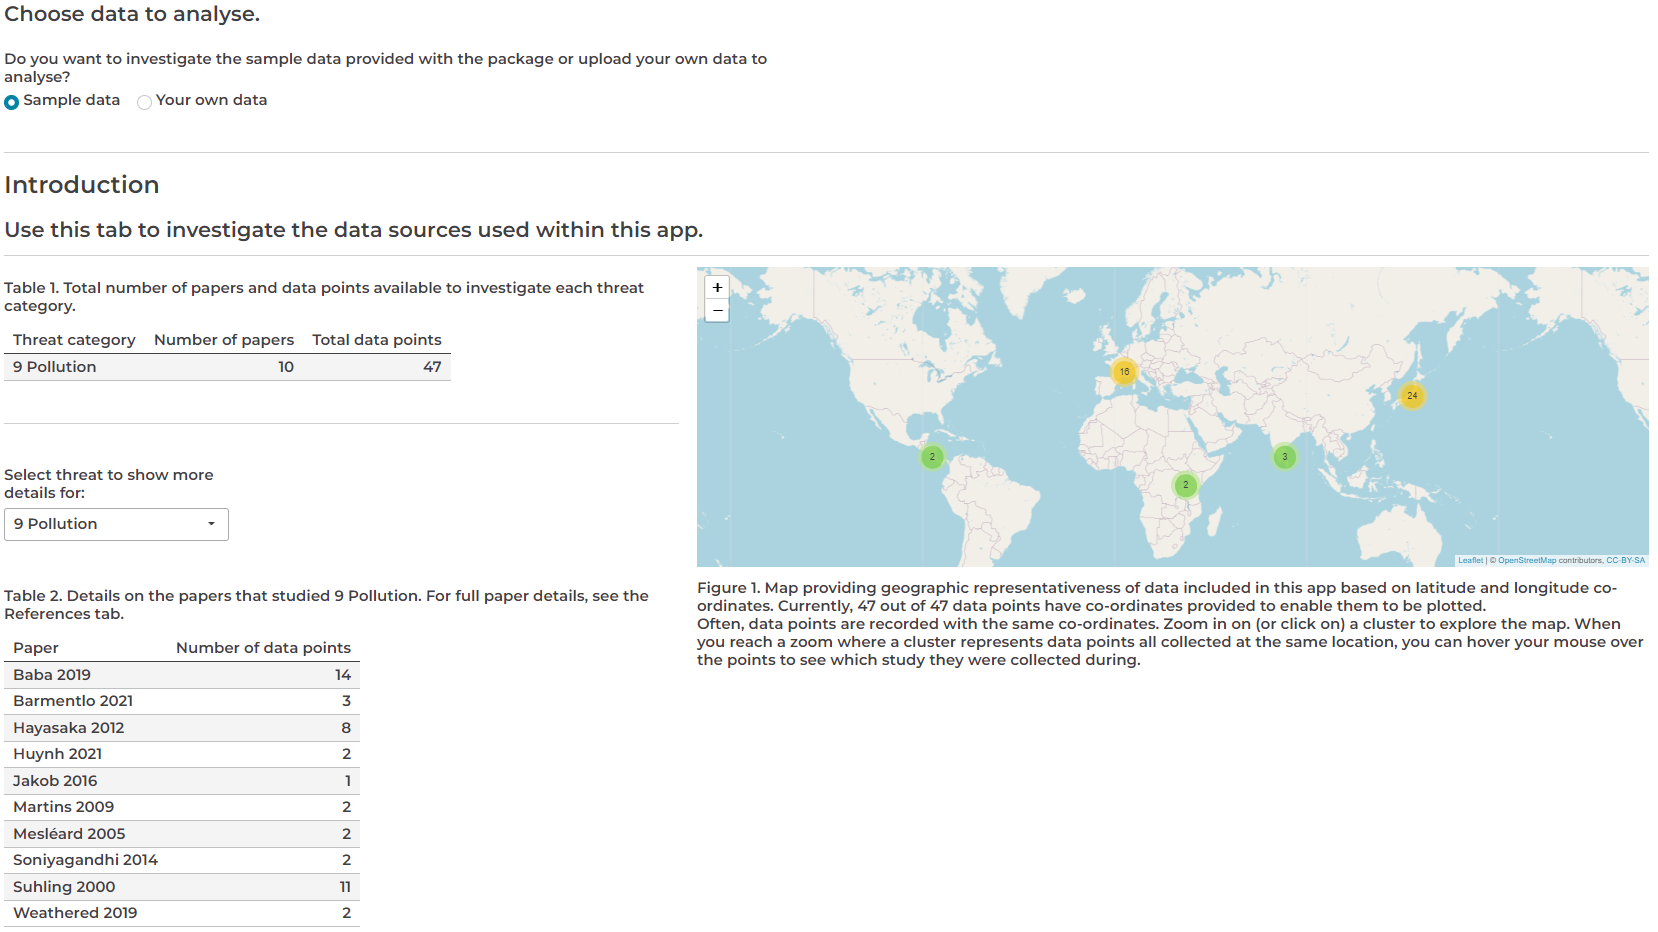
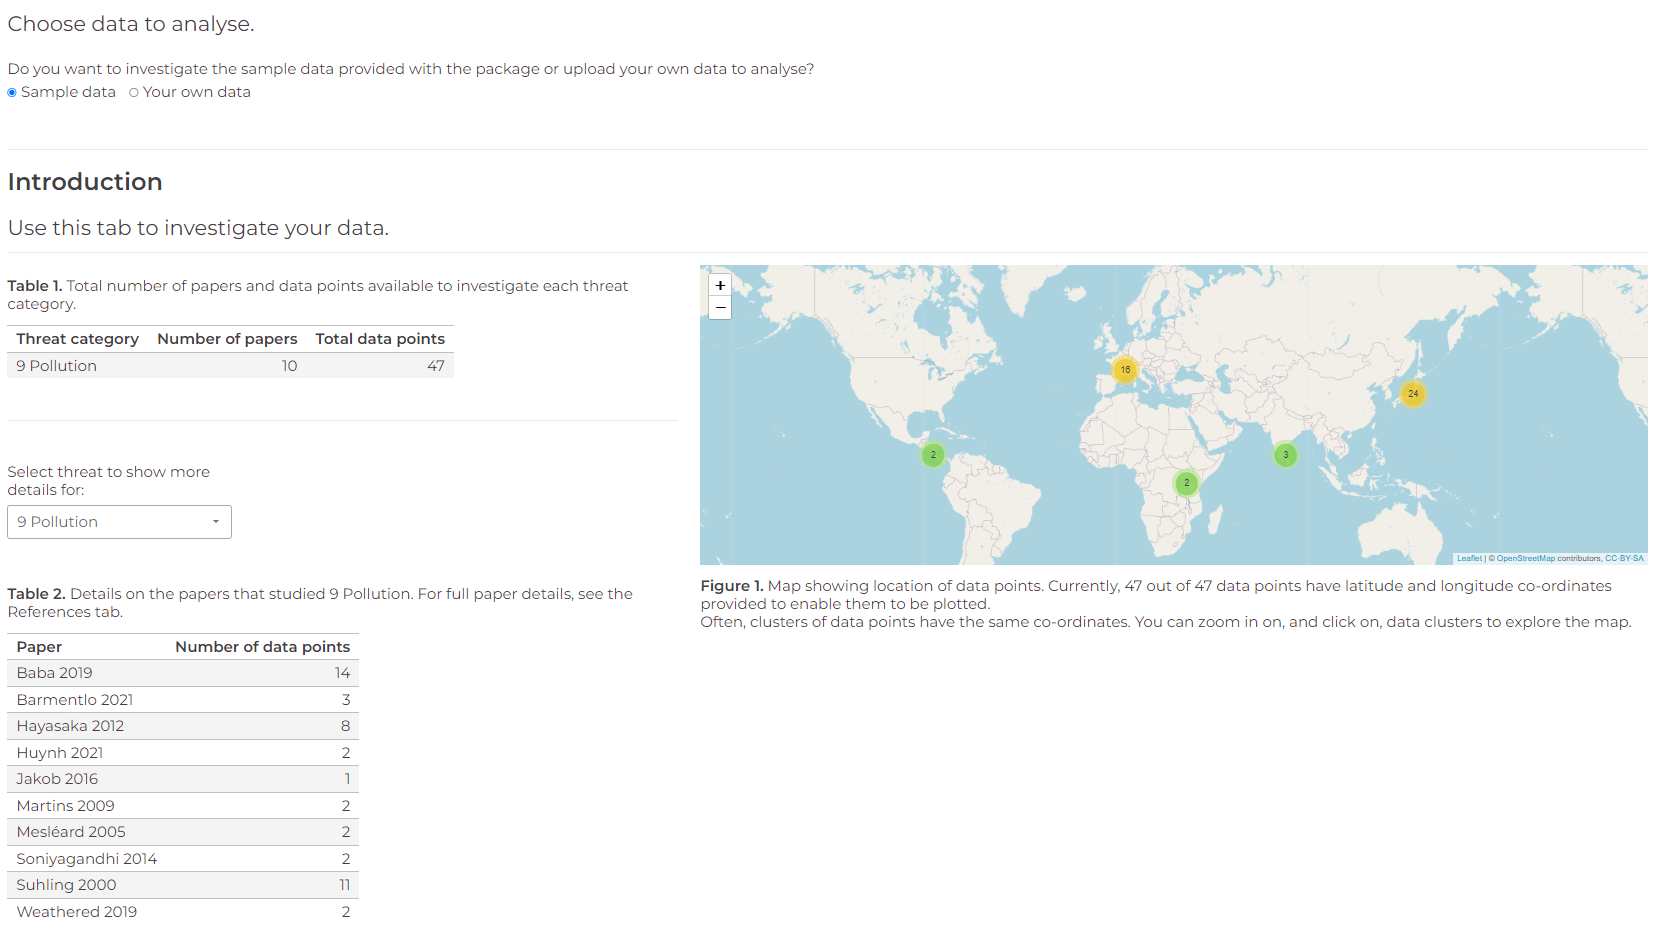
changing vignette and readme text

diff --git a/README.md b/README.md
@@ -9,24 +9,31 @@
 
 ## Table of contents
 1. [Introduction](#introduction)
-2. [Installing and using the package](#installing-and-using-the-package)
-3. [Repo structure](#repo-structure)
-4. [Author name and contact ](#author-name-and-contact)
+2. [Installing and using the Dynameta package](#installing-and-using-the-dynameta-package)
+3. [Using the Dynameta Shiny app](#using-the-dynameta-shiny-app)
+4. [Repo structure](#repo-structure)
+5. [Author name and contact ](#author-name-and-contact)
 
 <br>
 
 <a name="introduction"></a>
 ## Introduction 
-Dynameta was developed as part of the [GLiTRS project](https://glitrs.ceh.ac.uk/), a cross-institutional consortium aiming to build global threat-response models to better understand and predict insect biodiversity change. 
+Dynameta is an [R Shiny](https://shiny.rstudio.com/) platform written as an R package. This means the app can be launched by running the launch_Dynameta() function included in the R package. The Dynameta app can then be used to run interactive meta-analytic models. 
 
-Dynameta is a living-review (i.e. continually updateable) R Shiny platform written as an R package. This means the app can be launched by running the launch_Dynameta() function included in the R package.
+Meta-analyses are used to quantitatively summarise evidence across studies in a systematic process. Their larger sample size (and hence power) compared to individual research studies increases the chance of detecting significant effects.
 
-Dynameta was designed for interactive ecological meta-analyses, oriented around testing the effect of anthropogenic threats on biodiversity. The platform is highly generalisable, such that it can be applied in the context of any meta-analytic PICO question concerning the effect of any IUCN threat on any taxonomic group, biodiversity metric, or geographic region. Our hope is that such software can help encourage the broader adoption of dynamic living reviews in ecology.
+Despite representing a significant improvement upon individual studies, meta-analyses have a number of limitations which Dynameta was developed to overcome:
+1. Meta-analytic results are based on a snapshot of literature at a particluar time. As a living review platform, Dynameta overcomes this by enabling results to be continually updated as new evidence becomes available.
+2. Meta-analytic publications are resticted to presenting the results of the chosen questions asked by those researchers. On the other hand, Dynameta allows investigation of a range of questions based on varying interests of researchers through manipulation of the graphical user interface.
+
+Dynameta is designed for interactive ecological meta-analyses, oriented around testing the effect of anthropogenic threats (based on the [IUCN threats classification scheme](https://www.iucnredlist.org/resources/threat-classification-scheme)) on biodiversity. Nevertheless, the code can be easily repurposed to suit a variety of meta-analytic contexts. The server.R and ui.R files that define the Dynameta Shiny app can be found in the Dynameta_app/ directory. Here on github, Dynameta_app/ can be found in the [inst/ directory](https://github.com/gls21/Dynameta/tree/main/inst/Dynameta_app). If you have installed the package, the Dynameta_app/ directory can be found directly in the package root directory, alongside the DESCRIPTION, NAMESPACE, etc. files. 
+
+Dynameta was developed as part of the [GLiTRS](https://glitrs.ceh.ac.uk/) project, a cross-institutional consortium aiming to build global threat-response models to better understand and predict insect biodiversity change.
 
 <br>
 
-<a name="installing-and-using-the-package"></a>
-## Installing and using the package 
+<a name="installing-and-using-the-dynameta-package"></a>
+## Installing and using the Dynameta package 
 Installing the package requires devtools, which can be installed and loaded by running the following code in the R console:
 ```
 install.packages("devtools")
@@ -35,57 +42,100 @@ library(devtools)
 
 Next, install and load the Dynameta package by running the following code in the R console:
 ```
-devtools::install_github("gls21/Dynameta", build_vignettes = TRUE) # Currently won't work as need authentication token due to the repo being private
+devtools::install_github("gls21/Dynameta", build_vignettes = TRUE) 
 library(Dynameta)
 ```
 
-Access help documentation via:
+For access to help documentation, run:
 ```
 help(package = "Dynameta")
 ```
 
-Launch the Dynameta shiny app:
+Launch the Dynameta Shiny app:
 ```
 launch_Dynameta()
 ```
 
-View sample data included in the package
+View sample data included in the package. This contains data collected for a GLiTRS meta-analysis investigating the effect of pollution (specifically pesticide application) on dragonfly and damselfly (Odonata) abundance.
 ```
+# View sample data
 sample_data()
+
+# View description of data set
+?Dynameta::sample_data
 ```
 
 <br> 
 
-Process for using the Dynameta app:
-* Once the app has opened in your browser, you can choose whether you want to analyse the sample data included in the package or upload your own meta-analytic data to analyse.
-* If you select 'Your own data', you will then be given the option to upload a file (.csv). ???Needs to contain certain columns???
-* The 'Introduction' tab provides a breakdown of the data, including details of the papers and the IUCN threat(s) they investigated, and a map indicating where each data point originated from. 
-* To run meta-analytic models, go to the 'Run models' tab.
-* Based on your interests, filter the data by IUCN threat, location, taxonomic order, or biodiversity metric the data was collected with. Then click 'Run custom model'.
-* Dynameta will run a metafor meta-analytic model and produce a forest plot of the results. This includes an estimate of the overall effect size of your chosen IUCN threat on biodiversity.
-* You are able to download the model object (.rds) and a file containing the results summary of the model fitting (.txt).
+<a name="using-the-dynameta-shiny-app"></a>
+## Using the Dynameta Shiny app
+
+### Introduction tab
+* Once the app has opened, you can choose whether you want to analyse the sample data included in the package or upload your own meta-analytic data to analyse. By default, Dynameta uses the sample data provided in the package. 
+* If you select 'Your own data', you will then be given the option to upload a .csv file. This needs to be of the same format as the sample data provided.
+* The 'Introduction' tab provides a breakdown of the data that you will analyse using Dynameta, including details of the papers and the IUCN threat(s) they investigated, and a map indicating where each data point originated from.
+
+<img src="inst/images/intro_tab.PNG" width="75%" height="75%">
+
+### Run models tab
+* To run meta-analytic models to investigate how different threats impact biodiversity, go to the 'Run models' tab.
+* The models are multilevel meta-analytic models, run using the [metafor](https://www.metafor-project.org/doku.php/metafor) package. The models account for the non-independence of the data by specifying paper and observation identification as nested random effects.
+* The effect size used to compare biodiversity is the log transformed Ratio Of Means (ROM) (also known as the log response ratio), which quantifies proportionate change between treatments.
+* Based on your research question, you can filter the data by threat, location, taxonomic order, and biodiversity metric the data was collected with. 
+* Make your selections, then click 'Run custom model'.
+
+<img src="inst/images/run_models_tab_choose_filters.PNG" width="75%" height="75%">
+
+* Dynameta will run the model in real-time and produce a forest plot of the results. This includes an estimate of the overall effect size of your chosen IUCN threat on biodiversity.
+* You are also able to download the model object (.rds) and a file containing the results summary of the model fitting (.txt).
+
+<img src="inst/images/run_models_tab_forest_plot.PNG" width="75%" height="75%">
+
+### References tab
 * View full paper details using the 'References' tab.
+
+<img src="inst/images/references_tab.PNG" width="75%" height="75%">
 
 <br>
 
 <a name="repo-structure"></a>
 ## Repo structure 
+
+* .github
+    * workflows
+        * R-CMD-check.yaml - configures an R CMD check workflow on GitHub Actions. A build check and a unit test (written using shinytest2) are run each time code is pushed to the repository.  
 * R
-    * launch_Dynameta.R - defines the function that can be used to launch the Dynameta app
-    * sample_data.R - describes the sample data included with the package that can be analysed using the Dynameta shiny app (needed to make the dataset help documentation)
+    * launch_Dynameta.R - defines the function that can be used to launch the Dynameta Shiny app.
+    * sample_data.R - describes the sample data included with the package that can be analysed using the Dynameta Shiny app (necessary to make the help documentation for the dataset).
 * data
-    * sample_data.rda - R data file containing the sample data 
+    * sample_data.rda - R data file containing the sample data.
 * inst
     * Dynameta_app
-        * server.R - defines how the Dynameta Shiny app works (back-end development)
-        * ui.R - defines the way the Dynameta Shiny app looks (front-end development)
+        * server.R - defines how the Dynameta Shiny app works (back-end development).
+        * ui.R - defines how the Dynameta Shiny app looks (front-end development).
+        * tests - directory where unit tests are stored.
+            * testthat 
+                * _snaps/shinytest2 - expected outputs from shinytest2.
+                    * shinytest2_test-001.json 
+                    * shinytest2_test-001_.png 
+                * setup-shinytest2.R
+                * test-shinytest2.R - re-runs the shinytest2 to check outputs match the expected outputs.
+            * testthat.R - part of standard setup for testthat.
+    * data_for_shinytest
+        * sample_data_for_shinytest.csv - sample data used by default by the Dynameta Shiny app.
     * images
-        * GLiTRS_logo.png
 * man
-    * launch_Dynameta.Rd - R documentation file for the launch_Dynameta() function
-    * sample_data.Rd - R documentation file for the sample data 
-* DESCRIPTION - overall metadata about the Dynameta package
-* NAMESPACE - specifies the functions in the Dynameta package that are exported to the user, and functions or packages that are imported by the Dynameta package
+    * launch_Dynameta.Rd - R documentation file for the launch_Dynameta() function.
+    * sample_data.Rd - R documentation file for the sample data. 
+* tests
+    * testthat/test-shinytest2_test.R - test driver script that runs the shinytest2 tests in the inst/Dynameta_app/tests directory. 
+    * testthat.R - part of standard setup for testthat.
+* vignettes
+    * Dynameta.Rmd - R markdown document for the Dynameta package and Shiny app vignette.
+* DESCRIPTION - overall metadata about the Dynameta package.
+* LICENSE - declare Dynameta package as licensed.
+* LICENSE.md - includes a copy of the full text of the license.
+* NAMESPACE - specifies the functions in the Dynameta package that are exported to the user, and functions or packages that are imported by the Dynameta package.
 
 <br>
 
